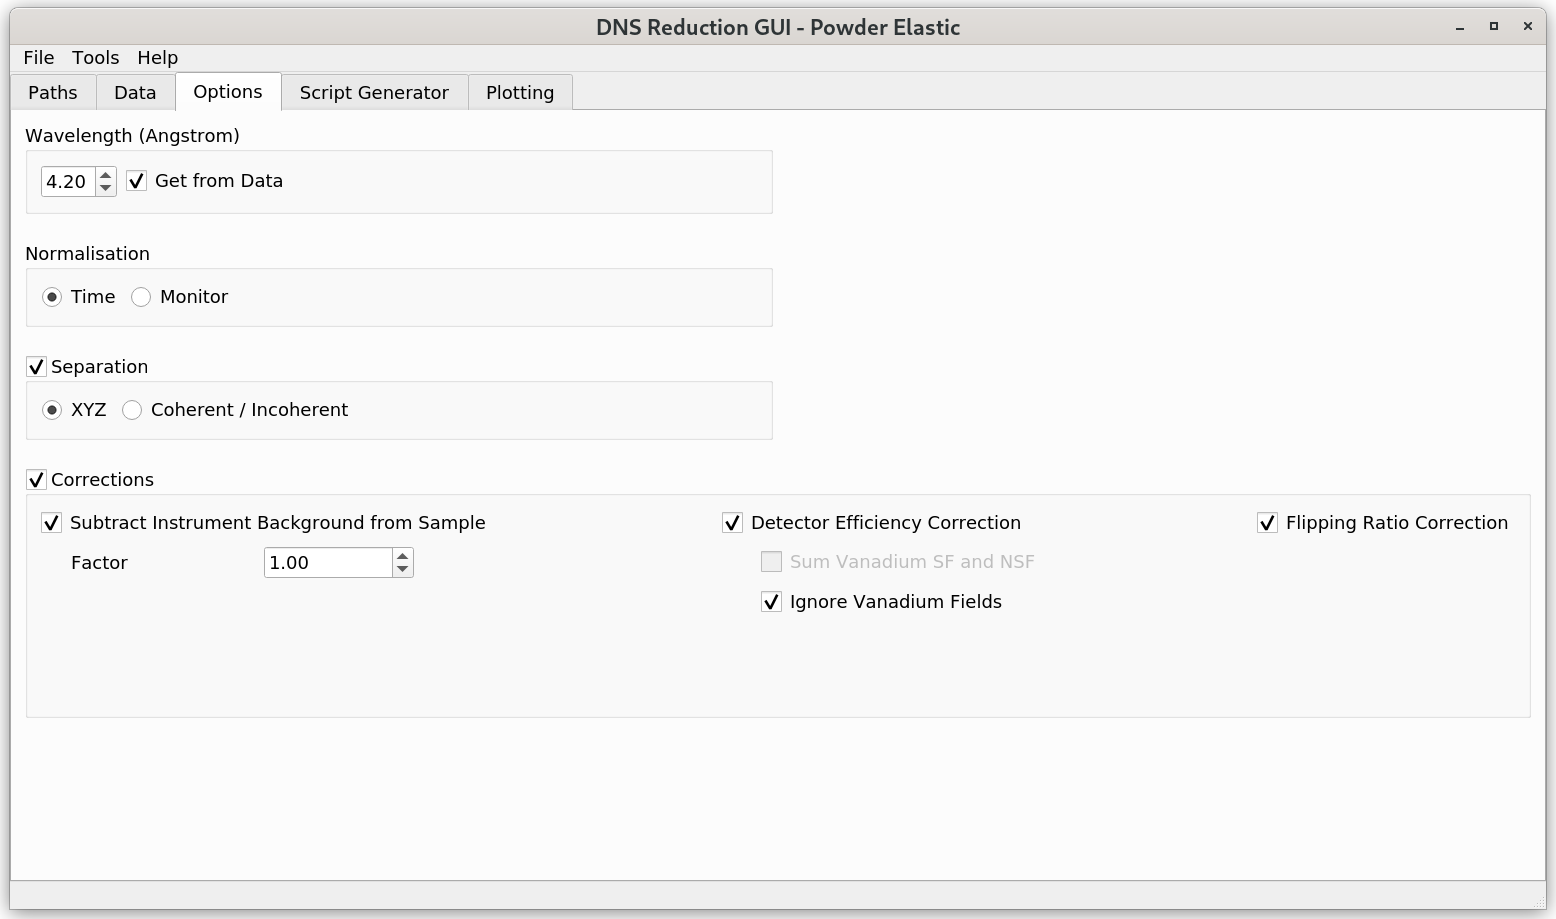
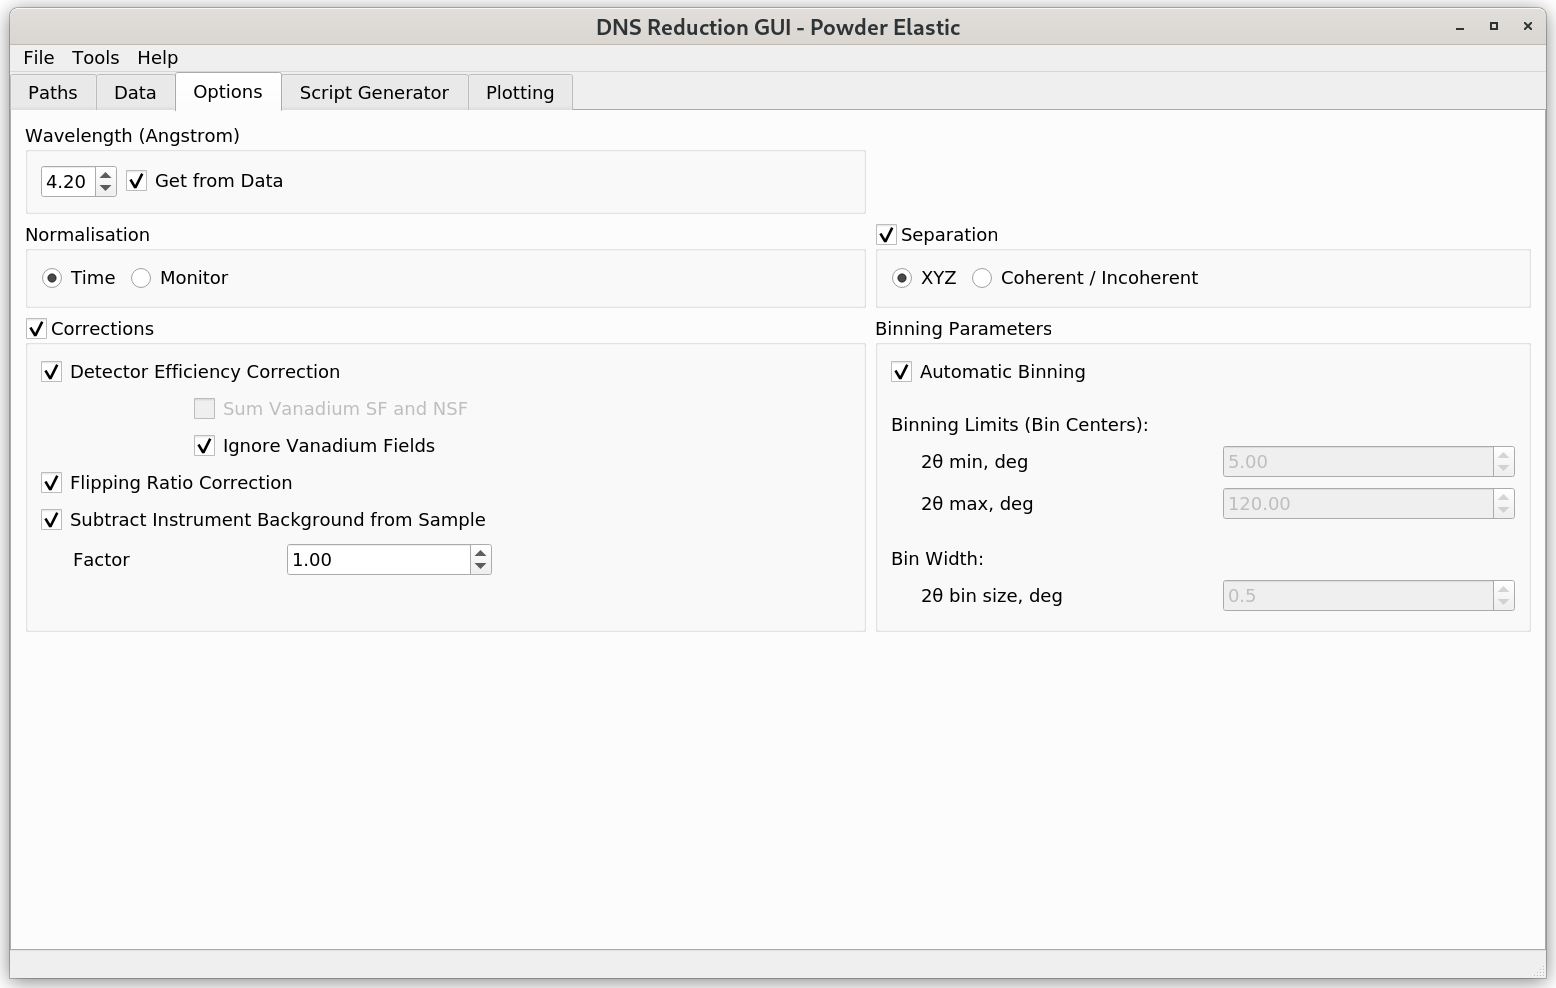
Update documentation

diff --git a/docs/source/interfaces/direct/dns_reduction/dns_powder_elastic_options_tab.rst b/docs/source/interfaces/direct/dns_reduction/dns_powder_elastic_options_tab.rst
@@ -1,7 +1,7 @@
 .. _dns_powder_elastic_options_tab-ref:
 
-DNS Powder Elastic Options Tab
-==============================
+DNS Powder Elastic - Options Tab
+================================
 
 .. image::  ../../../images/DNS_interface_powder_elastic_options_tab.png
    :align: center
@@ -10,8 +10,8 @@ DNS Powder Elastic Options Tab
 \
 
 **Wavelength** sets the wavelength of the neutron beam. If **Get from Data**
-is checked, then the wavelength is read from the data files. In the case that
-the selected data files have different wavelength, or the wavelength does not
+is checked, then the wavelength is read from the data files. If the selected
+data files have a different wavelength, or the wavelength does not
 match the corresponding frequency of the velocity selector, a warning will be
 given to the user and **Get from Data** checkbox will be unselected. In this
 case, the wavelength will have to be set manually by the user.
@@ -22,7 +22,7 @@ by measurement time or monitor counts.
 **Corrections** should be selected to activate various options for data reduction.
 
 **Detector Efficiency Correction** corrects for different detector efficiencies
-by normalising selected sample data on vanadium measurements. When the detector
+by normalizing selected sample data on vanadium measurements. When the detector
 efficiency correction checkbox is selected, the user must select the corresponding
 vanadium and empty container measurements under the **Standard Data** view of
 the :ref:`Data <dns_powder_tof_data_tab-ref>` tab. The empty measurement is
@@ -30,11 +30,11 @@ required because background subtraction from vanadium is mandatory. Detector
 efficiencies will be evaluated for each of those vanadium "field" channels
 that correspond to the user-selected sample "field" channels, unless either
 from **Sum Vanadium SF and NSF** and **Ignore Vanadium Fields** options is
-additionaly selected by the user (both options can't be selected at the same time).
+additionally selected by the user (both options can't be selected at the same time).
 
 **Sum Vanadium SF and NSF** calculates detector efficiencies by combining
 vanadium spin-flip (SF) and non-spin-flip (NSF) data for each of the vanadium
-polarization components that correspond to the selected polarizations
+polarization components that correspond to the selected polarisations
 (:math:`x, y`, or :math:`z`) of the sample.
 
 **Ignore Vanadium Fields** calculates detector efficiencies by combining all
@@ -42,9 +42,9 @@ selected vanadium "fields". In this case, the calculated detector efficiencies
 can be applied to any of the selected sample "fields".
 
 **Flipping Ratio Correction** corrects for the finite flipping ratio, using
-standard NiCr data. Similarly to the case with detector effictiency correction,
+standard NiCr data. Similarly to the case with detector efficiency correction,
 when the flipping ratio option is selected, the corresponding empty measurement
-must be selected as well (for the background subtraction from NiCr). Both, spin-flip
+must also be selected (for the background subtraction from NiCr). Both, spin-flip
 and non-spin-flip measurements are required to be selected in **Sample Data**
 and **Standard Data** views of the :ref:`Data <dns_powder_tof_data_tab-ref>` tab.
 
@@ -54,7 +54,15 @@ It requires at least x_sf, y_sf, z_sf, and z_nsf sample
 channels to be selected by the user. As a result of the :math:`xyz`-separation
 analysis, the user will be able to additionally visualize magnetic, nuclear
 coherent, and spin incoherent contributions to the resulting intensity function.
-**Coherent/Incoherent** is useful for the analysis of non-magnetic samples and
-requires only SF and NSF channels to be selected. As a result, the user will be
-able to visualize nuclear coherent and spin-incoherent contributions to each of
+**Coherent/Incoherent** is helpful for the analysis of non-magnetic samples and
+requires only SF and NSF channels to be selected. As a result, the user can
+visualize nuclear coherent and spin-incoherent contributions to each of
 the selected sample polarisation components.
+
+When the **Automatic Binning** checkbox is selected, the interface will determine
+the minimum and maximum values for the scattering angle :math:`2 \theta` based
+on the detector bank rotation angles of the selected sample data files. The default
+bin size value is chosen to be :math:`0.5^{\circ}`. When **Automatic Binning**
+is unselected, the user can manually choose the desired bin size value,
+as well as the scattering angle range that will be used in the figure under
+the :ref:`Plotting <dns_powder_elastic_plotting_tab-ref>` tab.

diff --git a/docs/source/interfaces/direct/dns_reduction/dns_powder_elastic_plotting_tab.rst b/docs/source/interfaces/direct/dns_reduction/dns_powder_elastic_plotting_tab.rst
@@ -1,7 +1,7 @@
 .. _dns_powder_elastic_plotting_tab-ref:
 
-DNS Powder Elastic Plotting Tab
-===============================
+DNS Powder Elastic - Plotting Tab
+=================================
 
 The **Plotting** tab offers basic plotting functionality for reduced data sets.
 
@@ -11,18 +11,18 @@ The **Plotting** tab offers basic plotting functionality for reduced data sets.
 
 \
 
-On the left side, a selection table with the different scattering channels
-of reduced data will be provided. The user can select which channels should
-be visualized. With the up and down arrows, one can move through each of the
-available single channels. The **Raw** button selects for visualisation all
-of the scattering channels chosen by the user in the **Sample Data**
+A selection table with various scattering channels of reduced data is
+provided on the left side. The user can select which channels should
+be visualized. With the up and down arrows, one can move through each
+available single channel. The **Raw** button selects for visualization
+all the scattering channels chosen by the user in the **Sample Data**
 view of the :ref:`Data <dns_powder_tof_data_tab-ref>` tab. The **Sep**
 button selects the workspaces with separated nuclear coherent,
 spin-incoherent, and magnetic contributions. The latter contribution is
-available when the :math:`xyz`-separation option was selected by the user.
+available when the :math:`xyz`-separation option is selected by the user.
 
-The dropdown :math:`2 \theta` box can be used to switches the labes of the
+The dropdown :math:`2 \theta` box can be used to switch the labels of the
 :math:`x`-axis between the scattering angle :math:`2 \theta`, scattering vector
 `q`, and spacing :math:`d`. The **log** checkbox can be used to switch to the
 logarithmic :math:`y`-axis scaling. The buttons to the right from it can be
-used to switch grids, line styles, and error bars.
+used to change grids, line styles, and error bars.

diff --git a/docs/source/interfaces/direct/dns_reduction/DNS Powder Elastic.rst b/docs/source/interfaces/direct/dns_reduction/DNS Powder Elastic.rst
@@ -12,7 +12,7 @@ DNS Powder Elastic
 
 \
 
-This mode of the DNS Reduction GUI can be used to perform reduction of
+This mode of the DNS Reduction GUI can be used to reduce
 polarized and unpolarized powder diffraction data collected at the DNS
 instrument at MLZ. In the case when polarized data are loaded, the separation
 of scattering contributions by polarization analysis can be performed.
@@ -23,8 +23,9 @@ interface by clicking on "Tools" → "Change Mode" and selecting the
 
 Below the interface menu, there are various tabs for data processing.
 These tabs should be called from left to right during the data processing.
-"Paths", "Data", and "Script Generator" tabs of this operational mode of
-the DNS Reduction GUI are identical to those of the "Powder TOF" mode.
+The functionality of the "Paths", "Data", and "Script Generator" tabs of this
+operational mode of the DNS Reduction GUI is identical to that of the
+"Powder TOF" mode.
 
 Tabs Usage and Description
 --------------------------
@@ -32,10 +33,5 @@ Tabs Usage and Description
 * :ref:`Paths <dns_powder_tof_paths_tab-ref>`
 * :ref:`Data <dns_powder_tof_data_tab-ref>`
 * :ref:`Options <dns_powder_elastic_options_tab-ref>`
-* :ref:`Script Generator <dns_powder_tof_script_generator_tab-ref>`
+* :ref:`Script Generator <dns_powder_elastic_script_generator_tab-ref>`
 * :ref:`Plotting <dns_powder_elastic_plotting_tab-ref>`
-
-Used By
--------
-
-:ref:`DNS Reduction <dns_reduction-ref>`

diff --git a/docs/source/interfaces/direct/dns_reduction/dns_powder_elastic_script_generator_tab.rst b/docs/source/interfaces/direct/dns_reduction/dns_powder_elastic_script_generator_tab.rst
@@ -1,0 +1,21 @@
+.. _dns_powder_elastic_script_generator_tab-ref:
+
+DNS Powder Elastic - Script Generator Tab
+=========================================
+
+.. image::  ../../../images/DNS_interface_powder_elastic_script_generator_tab.png
+   :align: center
+   :height: 400px
+
+\
+
+The functionality of the "Script Generator" tab of this operational mode is
+identical to that of :ref:`Script Generator <dns_powder_tof_script_generator_tab-ref>`
+of the DNS Powder TOF.
+
+It should be noted that for this operational mode, when the user selects
+more standard data files than it is required for data reduction (e.g., sample data
+with the bank rotation of :math:`5^{\circ}` were selected, whereas the standard
+data with bank rotations of :math:`5^{\circ}` and :math:`6^{\circ}` were chosen),
+then the unnecessary standard files will be removed from the analysis at this stage
+and will not be included in the generated script.
